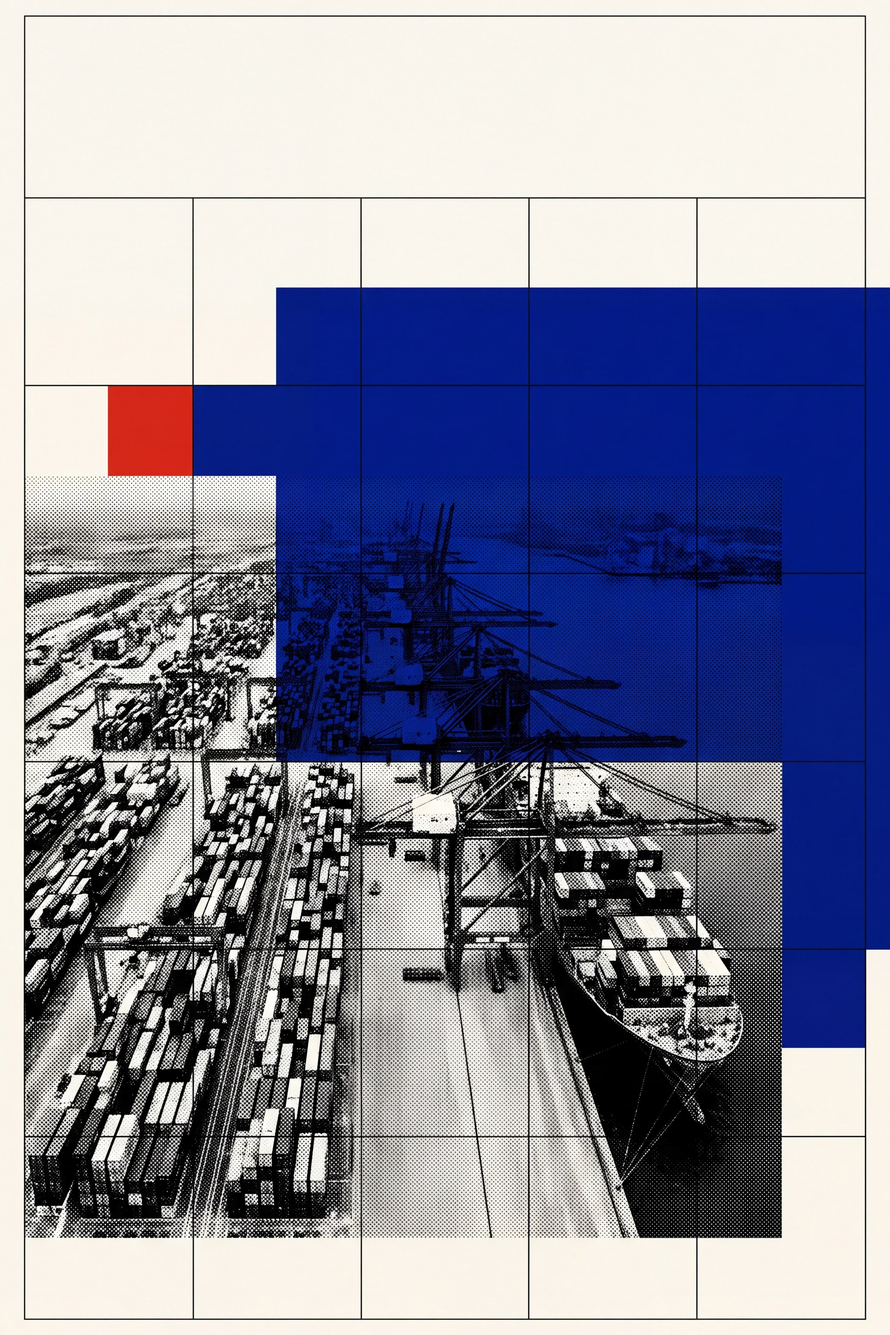
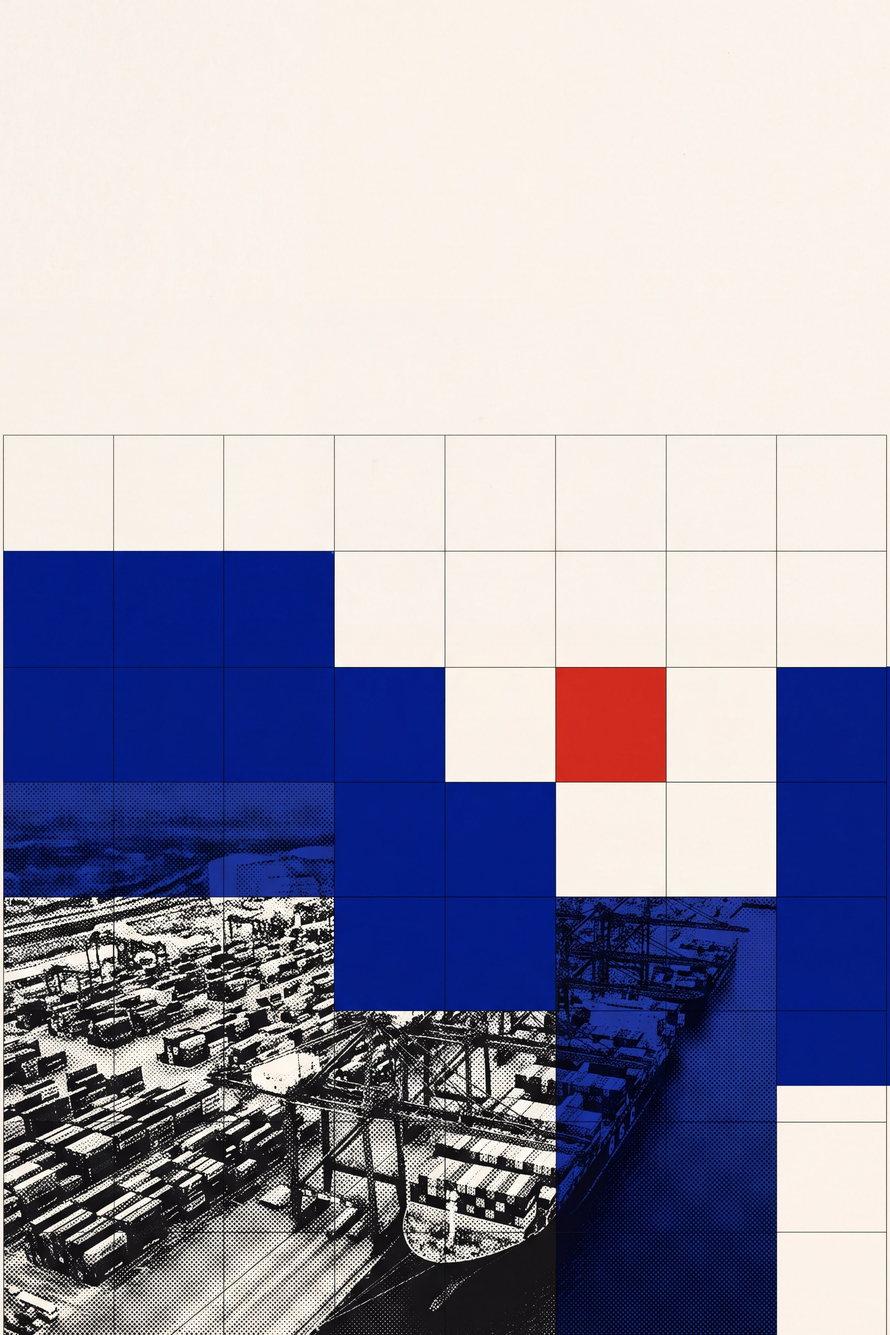
plates(swiss): a cover that leaves room for its own title, and a check that measures it
The Swiss cover is a full-bleed plate with the title set at fixed overlay
coordinates on top, which works only while the plate leaves the top of the page
as bare paper. The round-4 cover looked like it did -- in a 430px contact sheet
the upper band reads as empty -- and it did not. The built page printed "and the
Economy" and the whole subtitle over a photograph of a container port.

I then made the same mistake twice: re-rendered with the band as the first and
loudest constraint, picked the candidate whose thumbnail looked cleanest, and it
starts its photograph 2.0% down the page. A thumbnail cannot answer this
question and neither can an eye at that size.

So it is measured now. check_cover_title_band.py takes each plate's own paper
tone (these are aged-paper renders; the brand hex is the wrong reference) and
walks down the rows for the first one where more than 2% of pixels are far from
it. Hairline grid rules stay under that threshold, which is correct -- the title
sits over them by design -- and a photograph or a colour plane does not. Of the
six new candidates only one clears: 33.2% raw, 32.6% after the 2% inset crop,
against a title block that now ends at 28.3%.

The type moved to earn that margin: title from 18mm to 16mm, subtitle from 70mm
to 60mm, which tightens the block in the direction Swiss covers want anyway.
The floor in the checker is 30% -- the block plus a two-point gap, so the last
line of the subtitle is not sitting on the edge of an image.
[…]

diff --git a/scripts/whitepaper-plates/check_cover_title_band.py b/scripts/whitepaper-plates/check_cover_title_band.py
@@ -1,0 +1,90 @@
+#!/usr/bin/env python3
+"""Fail if a full-bleed cover plate has no room for the title typeset over it.
+
+The Swiss and technical covers are full-bleed images with the title set at fixed
+overlay coordinates on top. That works only while the plate leaves the top of
+the page as bare paper. Round 4a's cover looked like it did -- in a contact
+sheet at 430px the upper band reads as empty -- and it did not: substantial ink
+started 2% down, and the built cover printed "and the Economy" and the whole
+subtitle over a photograph of a container port.
+
+A thumbnail cannot answer this and neither can an eye. This measures it.
+
+Method: take the plate's own paper tone as the median of a thin strip across the
+top (its own off-white, not the brand hex -- these are aged-paper renders), then
+walk down the rows and find the first one where more than 2% of pixels are far
+from that tone. Hairline grid rules stay under the threshold, which is right:
+the title sits over them by design. A photograph or a flat colour plane does
+not.
+
+Run:
+    python3 scripts/whitepaper-plates/check_cover_title_band.py
+"""
+from __future__ import annotations
+
+import os
+import sys
+
+import numpy as np
+from PIL import Image
+
+REPO = os.path.dirname(os.path.dirname(os.path.dirname(os.path.abspath(__file__))))
+PLATES = os.path.join(REPO, "website-v2", "public", "whitepaper", "plates")
+
+# plate -> (required clean fraction, what occupies that band)
+#
+# The Swiss cover sets a three-line title at 34pt from 16mm down and the
+# subtitle at 60mm, on a 254mm page: the type block ends at about 28.3%. The
+# floor is 30%, which is that plus a two-point gap so the last line of the
+# subtitle is not sitting on the edge of a photograph.
+COVERS = {
+    os.path.join(PLATES, "swiss", "cover.jpg"): (
+        0.30, "the three-line title (34pt from 16mm) and the subtitle (13pt at 60mm)"),
+}
+
+INK_THRESHOLD = 60      # channel distance from paper that counts as real ink
+ROW_FRACTION = 0.02     # share of a row that must be inked for the row to count
+
+
+def clean_band(path: str) -> float:
+    """Fraction of the plate's height that is bare paper, top down."""
+    image = Image.open(path).convert("RGB")
+    pixels = np.asarray(image).astype(int)
+    height, width, _ = pixels.shape
+    strip = pixels[int(height * 0.005):int(height * 0.03),
+                   int(width * 0.2):int(width * 0.8)].reshape(-1, 3)
+    paper = np.median(strip, axis=0)
+    inked = (np.abs(pixels - paper).max(axis=2) > INK_THRESHOLD)
+    per_row = inked.mean(axis=1)
+    hits = np.flatnonzero(per_row > ROW_FRACTION)
+    return float(hits[0]) / height if hits.size else 1.0
+
+
+def main() -> int:
+    failures = []
+    for path, (required, what) in COVERS.items():
+        rel = os.path.relpath(path, REPO)
+        if not os.path.exists(path):
+            failures.append(f"{rel}: missing")
+            continue
+        band = clean_band(path)
+        verdict = "ok" if band >= required else "TOO SHALLOW"
+        print(f"{rel}: clean band {band * 100:.1f}% of the page "
+              f"(needs {required * 100:.0f}% for {what}) -- {verdict}")
+        if band < required:
+            failures.append(
+                f"{rel}: the plate's clean band is {band * 100:.1f}% of the page but "
+                f"{what} needs {required * 100:.0f}%. The title will print over the "
+                f"artwork. Re-render the cover with a deeper reserved band, or move "
+                f"the type.")
+    if failures:
+        print("\ncover title band: FAIL", file=sys.stderr)
+        for failure in failures:
+            print(f"  - {failure}", file=sys.stderr)
+        return 1
+    print("cover title band: every full-bleed cover leaves room for its title")
+    return 0
+
+
+if __name__ == "__main__":
+    raise SystemExit(main())

diff --git a/website-v2/public/whitepaper/coordination-papers-mega-volume.tex b/website-v2/public/whitepaper/coordination-papers-mega-volume.tex
@@ -28,8 +28,14 @@
   % three type sizes on one left datum at 14 mm, the imprint in the foot.
   \pdswisscoverart
   \begin{tikzpicture}[remember picture,overlay,shift={(current page.north west)},x=1mm,y=-1mm]
-    \node[anchor=north west,inner sep=0pt,text width=140mm,align=left,font=\pdgrotesk\fontsize{34}{38}\selectfont\bfseries,text=hhink] at (14,18) {The Harbor,\\the Person,\\and the Economy};
-    \node[anchor=north west,inner sep=0pt,text width=125mm,align=left,font=\pdgrotesk\fontsize{13}{17}\selectfont,text=hhink] at (14,70) {\pdeditionsubtitle};
+    % The type block ends at about 28% of the 254mm page, which is the number
+    % the cover plate's reserved band has to clear: see
+    % scripts/whitepaper-plates/check_cover_title_band.py, which measures the
+    % plate and fails the build rather than leaving it to the eye. Round 4a's
+    % cover looked clean in a contact sheet, started its photograph 2% down,
+    % and printed the subtitle over a container port.
+    \node[anchor=north west,inner sep=0pt,text width=140mm,align=left,font=\pdgrotesk\fontsize{34}{38}\selectfont\bfseries,text=hhink] at (14,16) {The Harbor,\\the Person,\\and the Economy};
+    \node[anchor=north west,inner sep=0pt,text width=125mm,align=left,font=\pdgrotesk\fontsize{13}{17}\selectfont,text=hhink] at (14,60) {\pdeditionsubtitle};
     \node[anchor=south west,inner sep=0pt,font=\pdgrotesk\fontsize{9}{11}\selectfont,text=hhink] at (14,246) {Erich Owens\quad\textperiodcentered\quad Curiositech\quad\textperiodcentered\quad Textbook Edition};
   \end{tikzpicture}
 \else\ifpdtechnical
